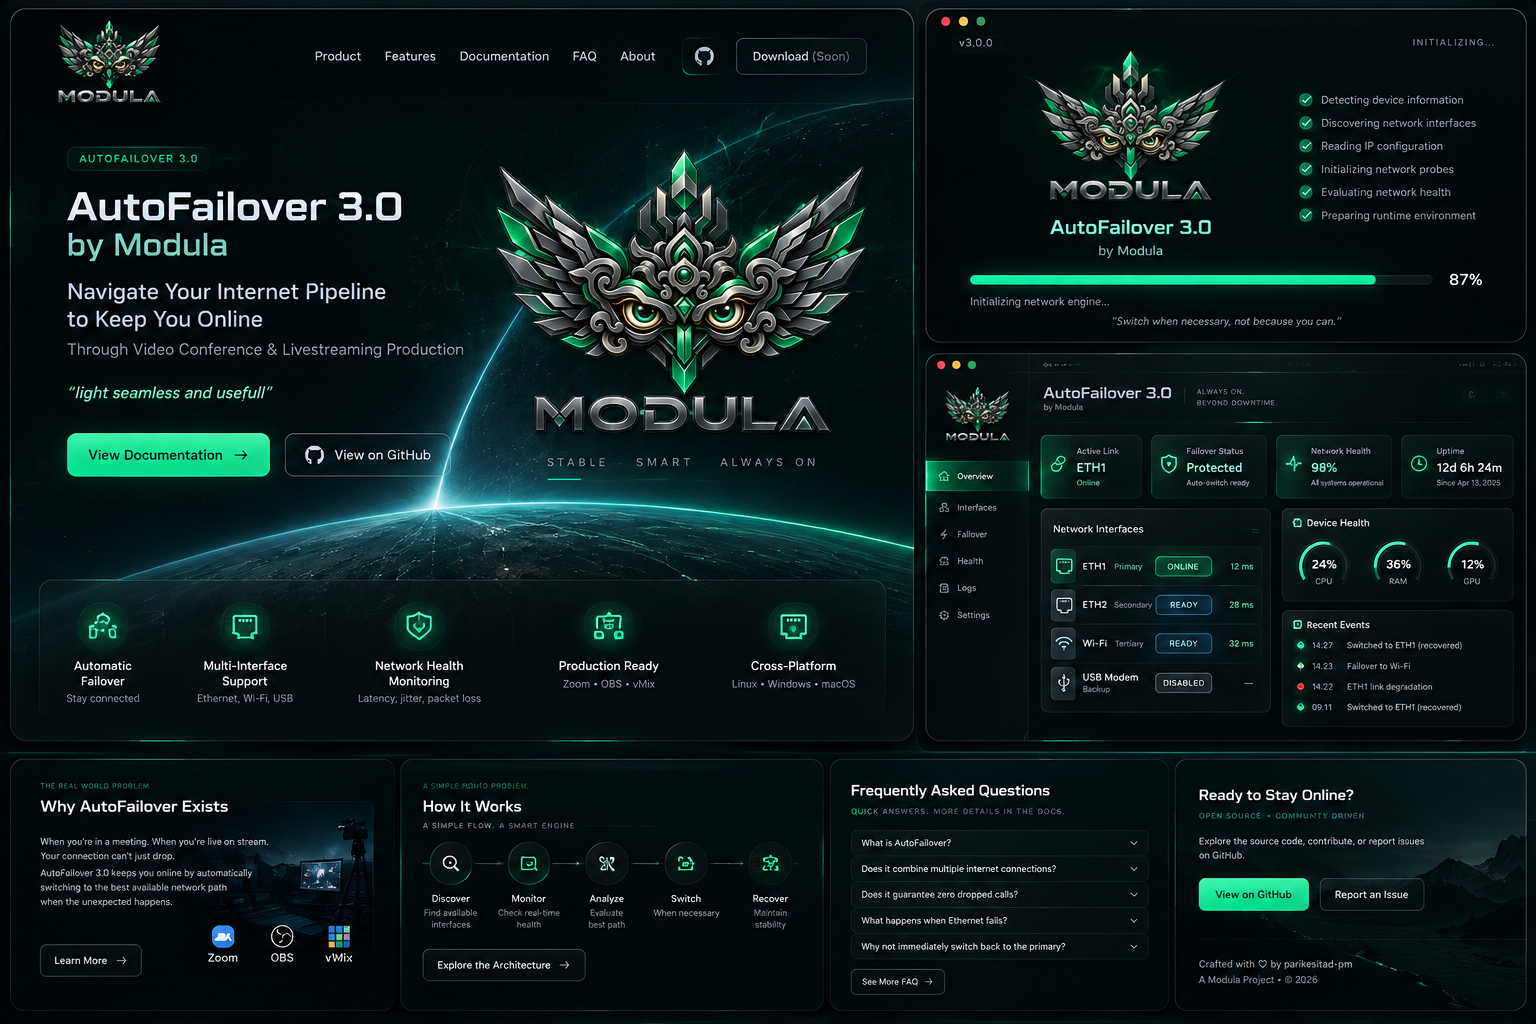
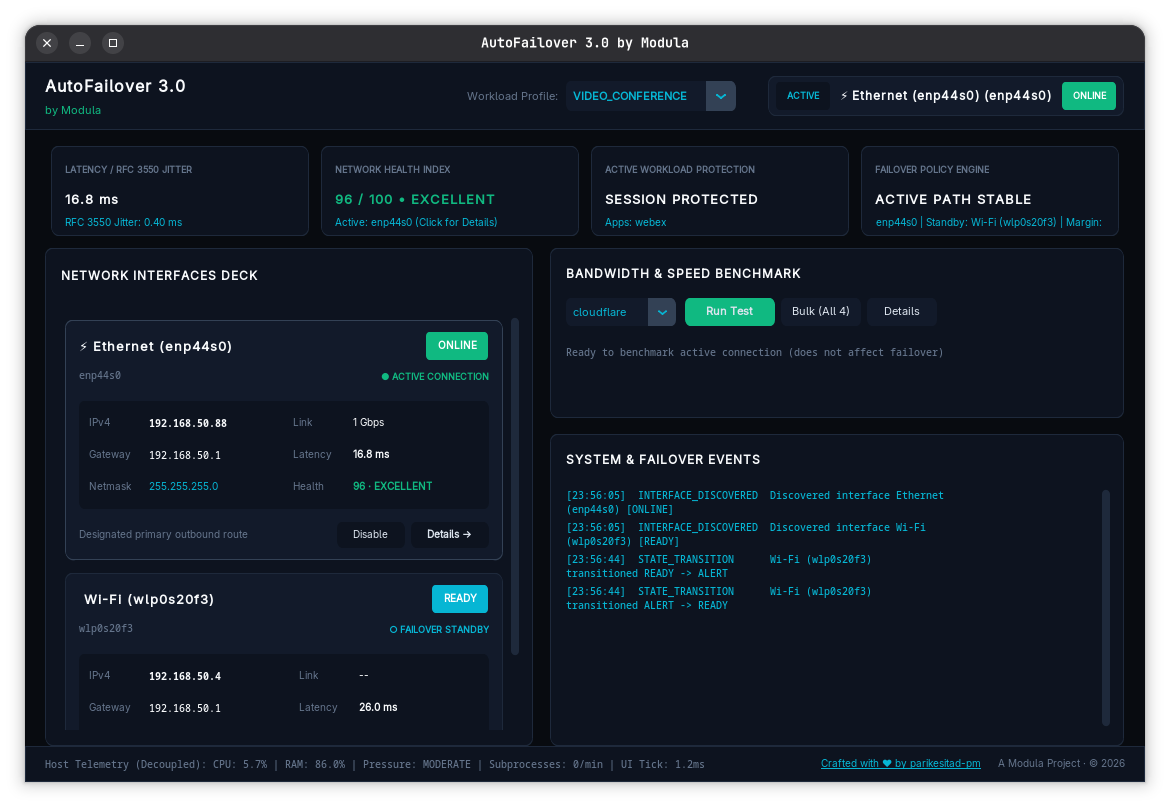
chore: perbarui screenshot dashboard_app.png dari host

diff --git a/website/src/components/Landing/DesktopShowcase.tsx b/website/src/components/Landing/DesktopShowcase.tsx
@@ -1,5 +1,12 @@
 import React from 'react';
-import { Monitor, Cpu, Activity, ShieldCheck, Download, ExternalLink } from 'lucide-react';
+import {
+  Monitor,
+  Cpu,
+  Activity,
+  ShieldCheck,
+  Download,
+  ExternalLink,
+} from 'lucide-react';
 
 interface DesktopShowcaseProps {
   onScrollToDownloads: () => void;
@@ -22,8 +29,9 @@ export const DesktopShowcase: React.FC<DesktopShowcaseProps> = ({
           </span>
         </h2>
         <p className="text-slate-400 text-base sm:text-lg leading-relaxed">
-          Inspired by automotive digital instrument clusters. Real-time RFC 3550 jitter readouts,
-          dynamic multi-factor network health scoring, and failover arbitration without dashboard clutter.
+          Inspired by automotive digital instrument clusters. Real-time RFC 3550
+          jitter readouts, dynamic multi-factor network health scoring, and
+          failover arbitration without dashboard clutter.
         </p>
       </div>
 
@@ -64,9 +72,13 @@ export const DesktopShowcase: React.FC<DesktopShowcaseProps> = ({
           <div className="w-10 h-10 rounded-xl bg-emerald-500/10 border border-emerald-500/30 flex items-center justify-center text-emerald-400 mb-4">
             <Activity className="w-5 h-5" />
           </div>
-          <h3 className="text-white font-bold text-base mb-2">RFC 3550 Real-Time Jitter</h3>
+          <h3 className="text-white font-bold text-base mb-2">
+            RFC 3550 Real-Time Jitter
+          </h3>
           <p className="text-slate-400 text-sm leading-relaxed">
-            Continuous packet inter-arrival jitter evaluation calculated directly according to RFC 3550, detecting subtle connection degradation before total packet drop.
+            Continuous packet inter-arrival jitter evaluation calculated
+            directly according to RFC 3550, detecting subtle connection
+            degradation before total packet drop.
           </p>
         </div>
 
@@ -74,9 +86,13 @@ export const DesktopShowcase: React.FC<DesktopShowcaseProps> = ({
           <div className="w-10 h-10 rounded-xl bg-cyan-500/10 border border-cyan-500/30 flex items-center justify-center text-cyan-400 mb-4">
             <ShieldCheck className="w-5 h-5" />
           </div>
-          <h3 className="text-white font-bold text-base mb-2">Anti-Flap Policy Engine</h3>
+          <h3 className="text-white font-bold text-base mb-2">
+            Anti-Flap Policy Engine
+          </h3>
           <p className="text-slate-400 text-sm leading-relaxed">
-            Hysteresis scoring margin prevents erratic flip-flopping between Ethernet and Wi-Fi, keeping critical Zoom, Teams, and OBS sessions steady.
+            Hysteresis scoring margin prevents erratic flip-flopping between
+            Ethernet and Wi-Fi, keeping critical Zoom, Teams, and OBS sessions
+            steady.
           </p>
         </div>
 
@@ -84,9 +100,13 @@ export const DesktopShowcase: React.FC<DesktopShowcaseProps> = ({
           <div className="w-10 h-10 rounded-xl bg-teal-500/10 border border-teal-500/30 flex items-center justify-center text-teal-400 mb-4">
             <Cpu className="w-5 h-5" />
           </div>
-          <h3 className="text-white font-bold text-base mb-2">Decoupled Architecture</h3>
+          <h3 className="text-white font-bold text-base mb-2">
+            Decoupled Architecture
+          </h3>
           <p className="text-slate-400 text-sm leading-relaxed">
-            Core network failover engine runs independently in background threads. Device CPU/RAM telemetry is strictly separated from network path decisions.
+            Core network failover engine runs independently in background
+            threads. Device CPU/RAM telemetry is strictly separated from network
+            path decisions.
           </p>
         </div>
       </div>

diff --git a/website/src/services/githubReleases.ts b/website/src/services/githubReleases.ts
@@ -85,7 +85,11 @@ export function shouldInvalidateCache(): boolean {
   if (typeof window === 'undefined') return false;
   try {
     const params = new URLSearchParams(window.location.search);
-    return params.has('refresh') || params.has('clear_cache') || params.has('nocache');
+    return (
+      params.has('refresh') ||
+      params.has('clear_cache') ||
+      params.has('nocache')
+    );
   } catch {
     return false;
   }
@@ -158,7 +162,9 @@ export function resolveReleaseFromList(
       parsed: parseReleaseTag(r.tag_name),
     }))
     .filter(
-      (item): item is { release: GitHubRelease; parsed: ParsedReleaseVersion } =>
+      (
+        item
+      ): item is { release: GitHubRelease; parsed: ParsedReleaseVersion } =>
         item.parsed !== null
     );
 

diff --git a/website/src/App.tsx b/website/src/App.tsx
@@ -98,7 +98,9 @@ export const App: React.FC = () => {
           onScrollToShowcase={() => handleScrollTo('showcase')}
         />
         <div id="showcase">
-          <DesktopShowcase onScrollToDownloads={() => handleScrollTo('downloads')} />
+          <DesktopShowcase
+            onScrollToDownloads={() => handleScrollTo('downloads')}
+          />
         </div>
         <div id="features">
           <FeaturePillars />

diff --git a/website/src/components/Landing/index.ts b/website/src/components/Landing/index.ts
@@ -6,4 +6,3 @@ export { WhyAutoFailover } from './WhyAutoFailover';
 export { HowItWorks } from './HowItWorks';
 export { FaqAccordion } from './FaqAccordion';
 export { LandingFooter } from './LandingFooter';
-
